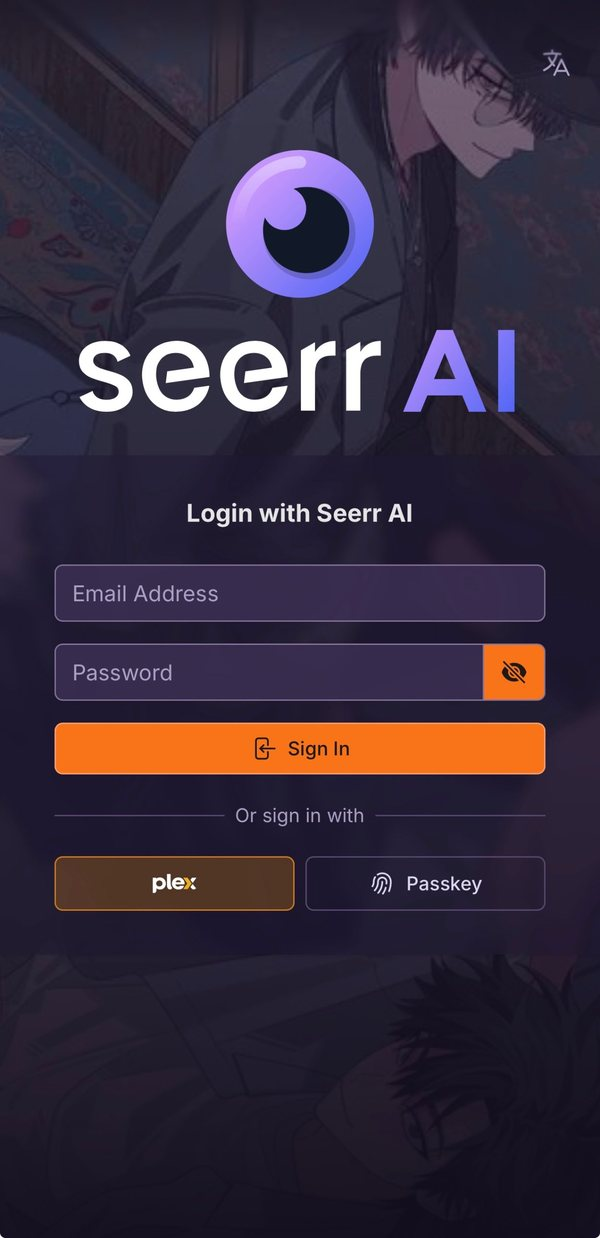
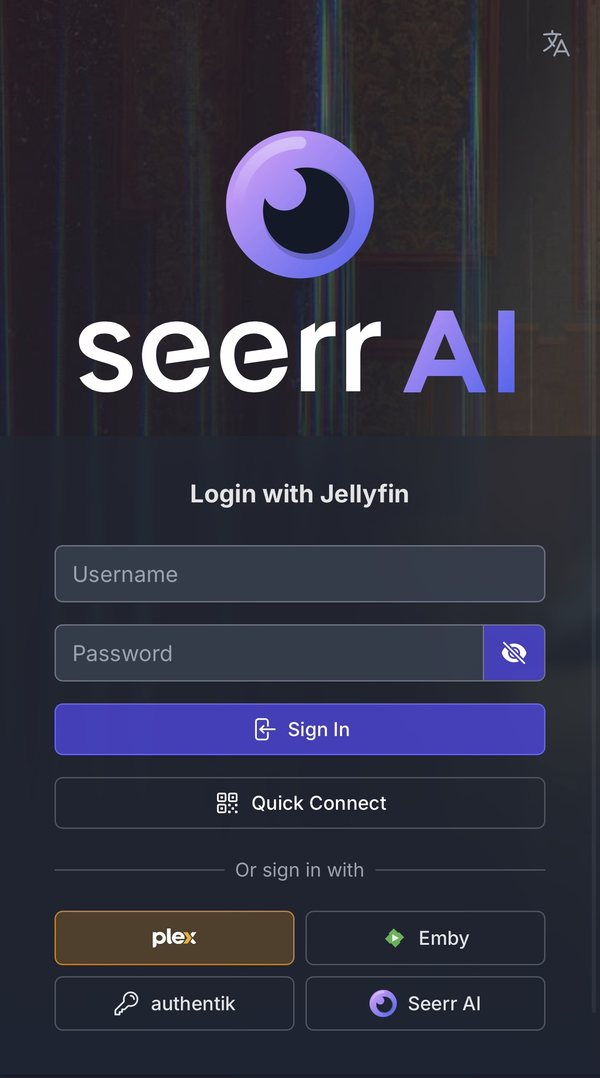
Phone sign-in screenshot with every sign-in method

diff --git a/README.md b/README.md
@@ -52,7 +52,7 @@ Every extra can be turned off for everyone, or by each person for themselves.
 <p>
   <img src="./docs/seerr-ai/screenshots/phone-discover.jpg" alt="Discover on a phone" height="520">
   &nbsp;
-  <img src="./docs/seerr-ai/screenshots/phone-sign-in.jpg" alt="The sign-in page on a phone, with password, Plex and passkey" height="520">
+  <img src="./docs/seerr-ai/screenshots/phone-sign-in.jpg" alt="The sign-in page on a phone: Jellyfin with Quick Connect, Plex, Emby, Authentik and a Seerr AI password" height="520">
 </p>
 
 ## Install
